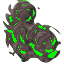
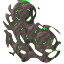
Fixed some green coloring in explosion animation and made the animation go faster.

diff --git a/BomberManWar/BMDeflagration.m b/BomberManWar/BMDeflagration.m
@@ -61,7 +61,7 @@
 
 - (SKAction *) deflagrationAction {
     if (!_deflagrationAction) {
-        _deflagrationAction = [SKAction animateWithTextures:_deflagrationFrames timePerFrame:0.1];
+        _deflagrationAction = [SKAction animateWithTextures:_deflagrationFrames timePerFrame:0.035];
     }
     return _deflagrationAction;
 }
